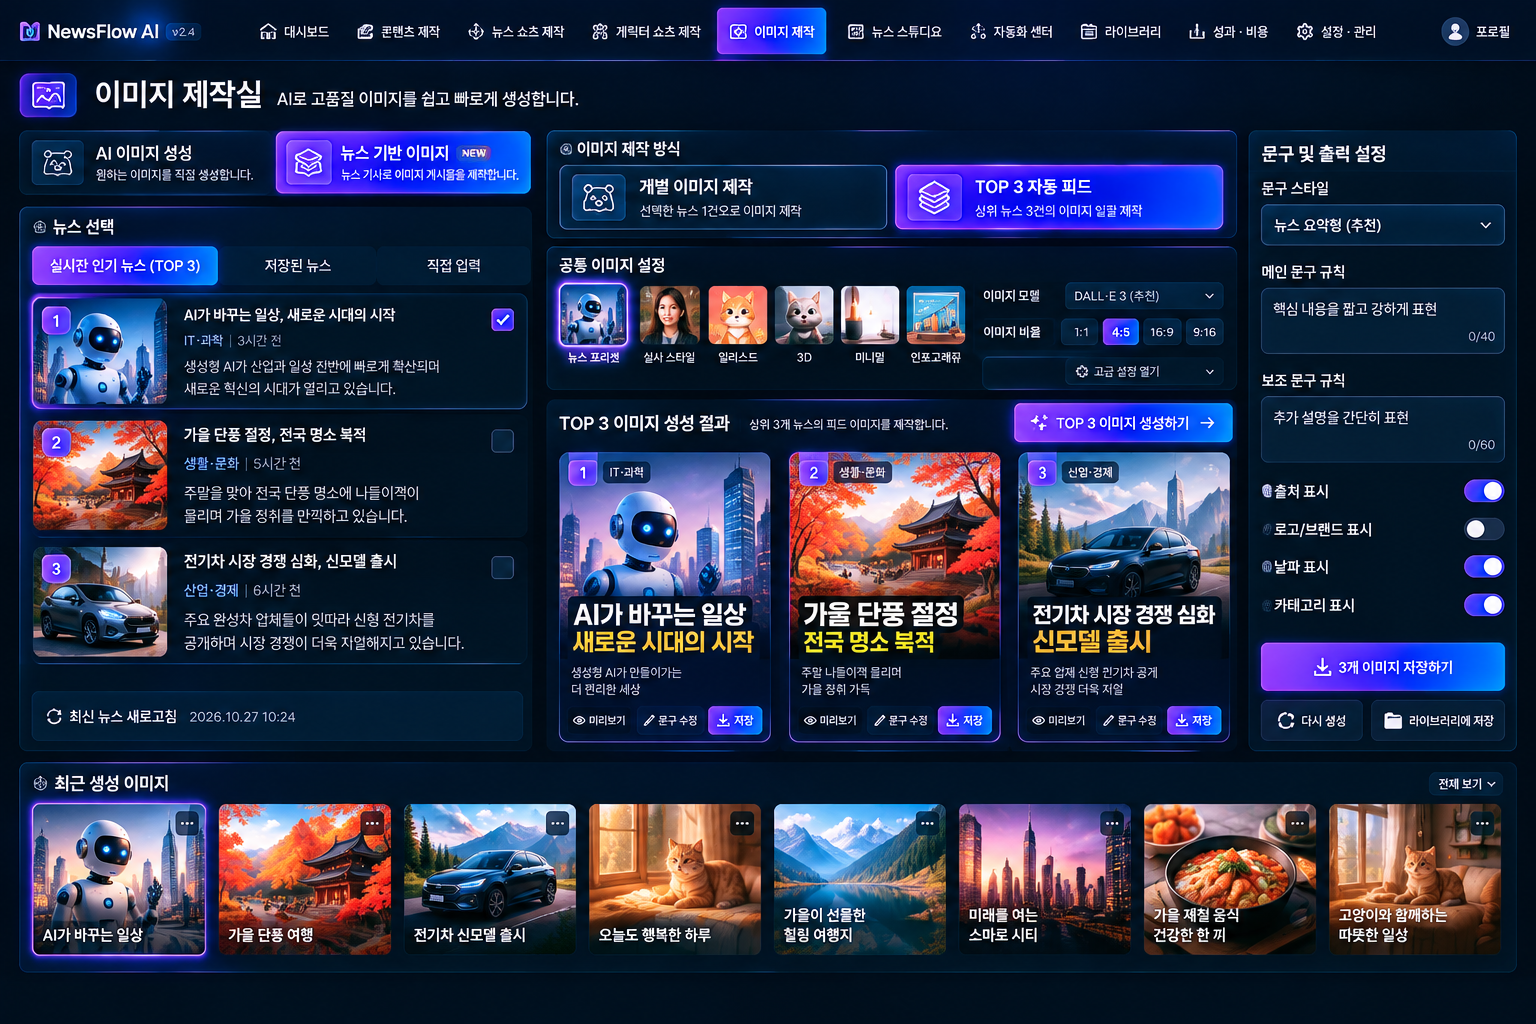
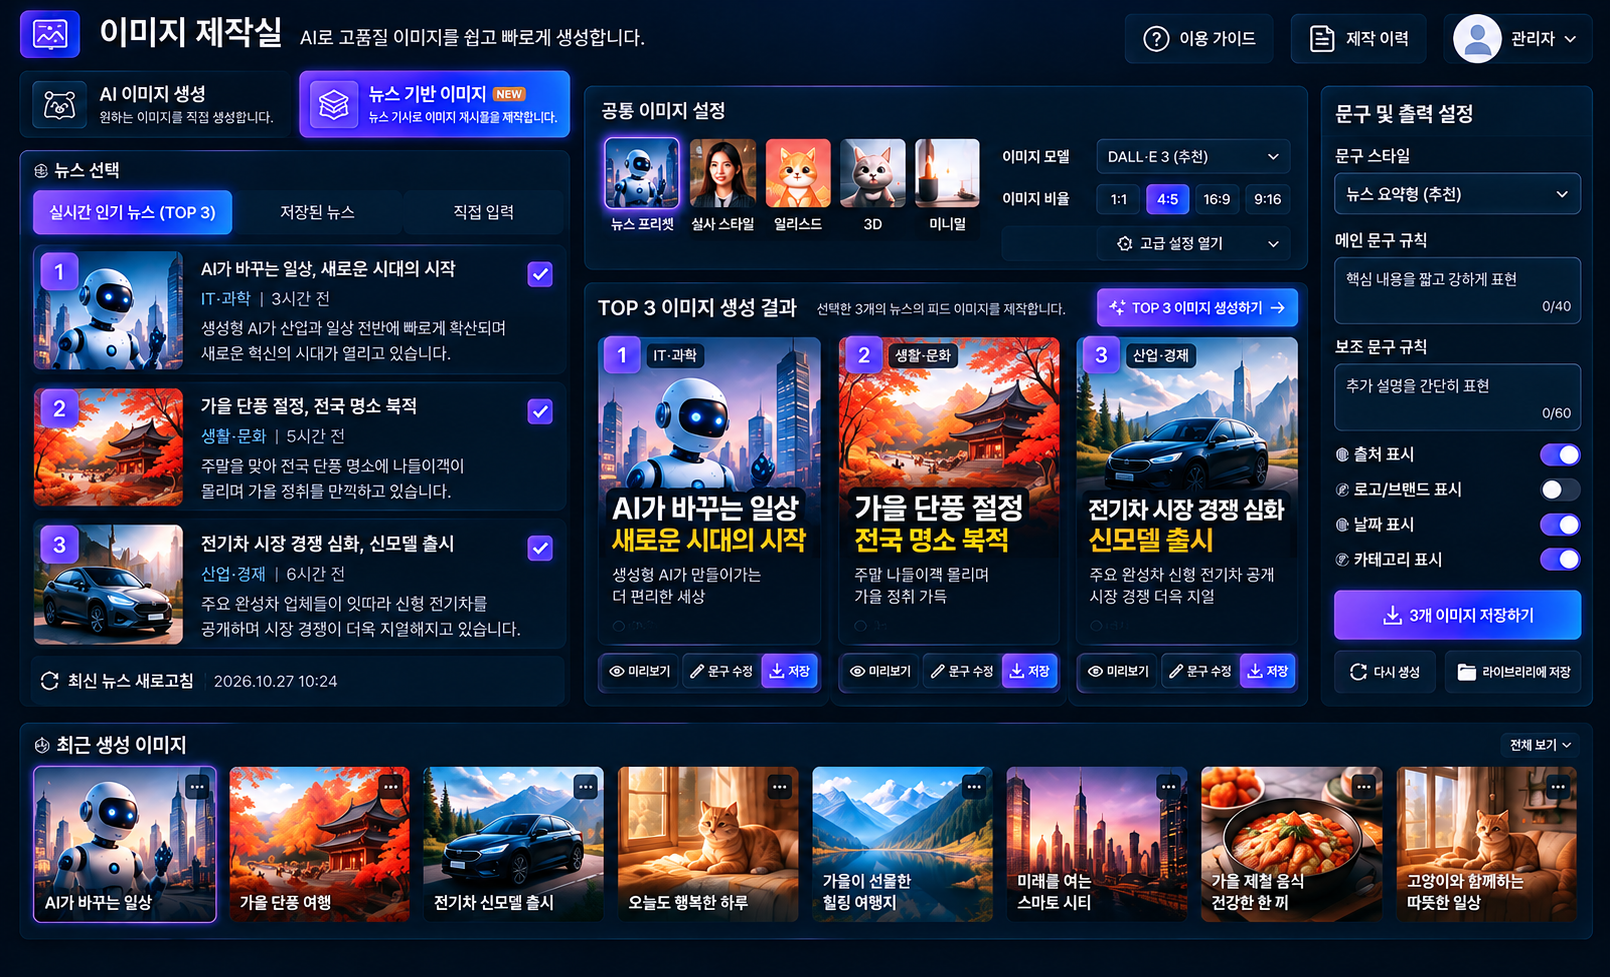
docs(design): register final TOP 3 image and core five approvals

diff --git a/newsflow-ai/docs/design/approved-20261027/approved-assets/APPROVED_DESIGN_MANIFEST.md b/newsflow-ai/docs/design/approved-20261027/approved-assets/APPROVED_DESIGN_MANIFEST.md
@@ -2,8 +2,14 @@
 
 기준일: 2026-10-27 KST  
 문서 브랜치: `docs/newsflow-approved-design-handoff-20261027`  
-승인 PNG 등록 커밋: [`4daadfc6432b9dc7c99d0a05c8167aca345c784f`](https://github.com/jsbae1979-prog/JSBAE/commit/4daadfc6432b9dc7c99d0a05c8167aca345c784f)  
+최초 승인 PNG 등록 커밋: [`4daadfc6432b9dc7c99d0a05c8167aca345c784f`](https://github.com/jsbae1979-prog/JSBAE/commit/4daadfc6432b9dc7c99d0a05c8167aca345c784f)  
 **디자인 자산: VERIFIED 11/11. 실제 React 반영·제품 기능 인수·운영 전환 승인은 별도다.**
+
+## 핵심 5종 최종 갱신 — 2026-10-27
+
+사용자가 GitHub 반영을 명시적으로 요청한 핵심 5종은 [CORE_5_APPROVED_MANIFEST.json](CORE_5_APPROVED_MANIFEST.json)을 기준으로 한다. 뉴스 쇼츠·캐릭터 쇼츠·독립 AI 이미지·뉴스 스튜디오 4개는 기존 승인 바이트를 유지한다. TOP 3는 재첨부한 **네온 뉴스 AI 이미지 제작실 대시보드.png** 원본으로 교체했다. 잘못 첨부했던 독립 이미지와 AI 생성 미검증 참고 시안은 사용하지 않았다.
+
[1 lines of base64/hex data omitted]
 
 ## 승인 근거와 해시 구분
 
@@ -13,11 +19,11 @@
 - [새 5개 전송 명세](https://github.com/jsbae1979-prog/JSBAE/blob/0fc3da0578dfd3ce4af8a12994e7e7a330139fc1/newsflow-ai/docs/design/approved-20261027/APPROVED_5_BINARY_UPLOAD_MANIFEST_20261027.md).
 - 파일명이나 BYTE_MATCH만으로 승격한 것이 아니다. 사용자 최종 선택 근거와 각 원본의 바이트 일치를 함께 확인했다.
 - 아래 SHA-256은 원본 바이트 해시다. Git blob SHA(별도 Git 객체 식별자)와 다르다. Git blob ID로 SHA-256 검사를 대체하지 않았다.
-- 전체 PNG는 **1536×1024**, 원격 파일 GET·SHA-256·크기·해상도·GitHub URL 검증 **11/11 PASS**.
+- 최초 등록 당시 PNG 11개는 1536×1024였고 검증 11/11 PASS였다. 현재는 TOP 3만 사용자 최종 수정본 **1610×977**로 갱신했으며 나머지 10개는 그대로다. 이번 작업은 핵심 5종 원본 바이트 일치와 변경 범위를 확인한다.
 
 ## 최종 PNG 11개
 
-기본 경로: `newsflow-ai/docs/design/approved-20261027/approved-assets/`. 아래 링크는 등록 커밋으로 고정했다.
+기본 경로: `newsflow-ai/docs/design/approved-20261027/approved-assets/`. 변경 없는 파일 링크는 최초 등록 커밋으로 고정했고, TOP 3 링크는 이 문서와 같은 버전의 파일을 가리킨다.
 
 | 화면 | 승인 버전 | 최종 PNG 경로·URL | SHA-256 | 해상도 | 승인 근거 | 기존 후보와 관계 | 자산 판정 | 실제 기능 대응(기존 감사) |
 |---|---|---|---|---|---|---|---|---|
@@ -25,7 +31,7 @@
[8 lines of base64/hex data omitted]
@@ -57,7 +63,7 @@ IMPLEMENTED는 코드상 기능·연결이 있다는 기존 정적 감사 판정
 
 - 기존 `candidate-assets/top3_feed_v3.png`는 라이브러리 화면으로 확인되었으므로 TOP 3 구현 기준에서 영구 제외한다. 파일은 보존한다.
 - 최종 `approved-assets/top3_feed_v3.png`는 뉴스 1·2·3위 선택, 공통 이미지 설정, TOP 3 생성 버튼 및 이미지 결과 3개가 있는 **뉴스 TOP 3 자동 이미지 제작 화면**이다.
[2 lines of base64/hex data omitted]
 - 다른 라이브러리 승인 원본 `library_v2.png`와 혼합하거나 후보 파일명을 바꾸지 않는다.
 
 ## 보존 및 구현 승인 경계

diff --git a/newsflow-ai/docs/design/approved-20261027/FINAL_USER_SELECTION_20261027.md b/newsflow-ai/docs/design/approved-20261027/FINAL_USER_SELECTION_20261027.md
@@ -1,5 +1,7 @@
 # NewsFlow AI — 11개 디자인 최종 선택 기록
 
+현재 TOP 3 기준은 문서 마지막의 **핵심 5종 최종 갱신** 기록이다. 아래 최초 선택·등록 기록은 이력으로 보존한다.
+
 2026-10-27 KST. 사용자 승인: 기존 비교표 **오른쪽 대화 생성 이미지 5개**를 최종 기준으로 선택하고, 이전에 바이트 일치한 6개는 유지.
 
 ## 사용자 선택
@@ -32,3 +34,16 @@
 [최종 승인 경로·해시·기능 상태 매니페스트](approved-assets/APPROVED_DESIGN_MANIFEST.md) · [단일 결과 보고서](APPROVED_DESIGN_REGISTRATION_REPORT_20261027.md).
 
 기존 후보 11개·ZIP은 변경하지 않는다. TOP 3 기존 잘못된 라이브러리 후보는 제외 상태로 보존하고, 승인 폴더의 새 원본만 구현 기준으로 사용한다. 실제 React 반영은 미착수이며 별도 구현 지시가 필요하다.
+
+## 핵심 5종 최종 갱신 — 2026-10-27
+
+사용자는 다운로드 패키지의 5개 디자인을 GitHub 승인 디자인에 반영하고 TOP 3를 방금 재첨부한 최종 수정본으로 교체하라고 명시했다. 운영 코드와 PR #35는 변경하지 않도록 지시했다.
+
+- 뉴스 쇼츠 2차, 캐릭터 쇼츠 4차, 독립 AI 이미지 2차, 뉴스 스튜디오 2차: 기존 승인 PNG와 패키지 바이트 일치, 유지.
+- TOP 3: 사용자 재첨부 **네온 뉴스 AI 이미지 제작실 대시보드.png**를 `approved-assets/top3_feed_v3.png`에 원본 그대로 반영.
[1 lines of base64/hex data omitted]
+- 직전 잘못 첨부한 AI 이미지 생성 화면 및 AI 생성 미검증 참고 수정안은 채택하지 않음.
+- 기존 TOP 3 3차와 픽셀 동일성을 주장하지 않으며 이번 사용자 최종 파일 지정이 현재 디자인 기준이다.
+- [핵심 5종 출처·해시](approved-assets/CORE_5_APPROVED_MANIFEST.json) · [현재 승인 목록](approved-assets/APPROVED_DESIGN_MANIFEST.md).
+
+문서 브랜치 승인 PNG와 기록만 갱신한다. 제품 코드·운영 앱·PR #35·main 및 다른 브랜치는 수정하지 않는다.
